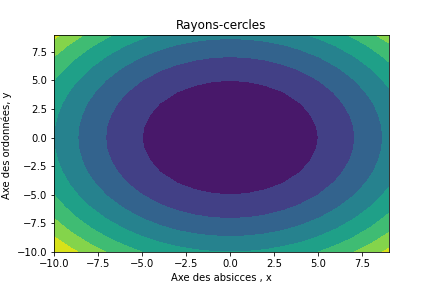
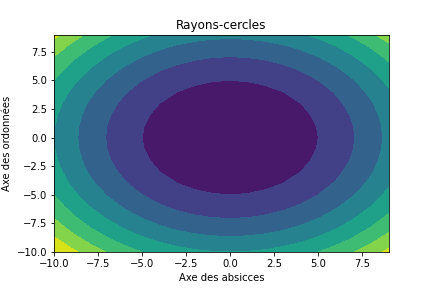
modif légendes graphes

Changed region(s): [[0.3912, 0.9375, 0.6319, 1.0], [0.0, 0.3125, 0.0301, 0.6875]]

diff --git a/cercle1.py b/cercle1.py
@@ -32,8 +32,8 @@ plt.contourf(x,y,R)
 # Titres et légendes
 plt.title("Rayons-cercles")
 
-plt.xlabel("Axe des absicces , x")
-plt.ylabel("Axe des ordonnées, y ")
+plt.xlabel("Axe des absicces")
+plt.ylabel("Axe des ordonnées")
 # Sauvegarde
 plt.savefig("fig1-Rayons.png")
 # Visualisation
@@ -46,8 +46,8 @@ plt.contour(X,Y,R)
 
 # Titre et légendes
 plt.title("Contours rayons - cercles")
-plt.xlabel("Axe des abscisses ")
-plt.ylabel("Axe des ordonnées ")
+plt.xlabel("Axe des abscisses")
+plt.ylabel("Axe des ordonnées")
 # Sauvegarde
 plt.savefig("fig2-Contours-cercle.png")
 # Visualisation
